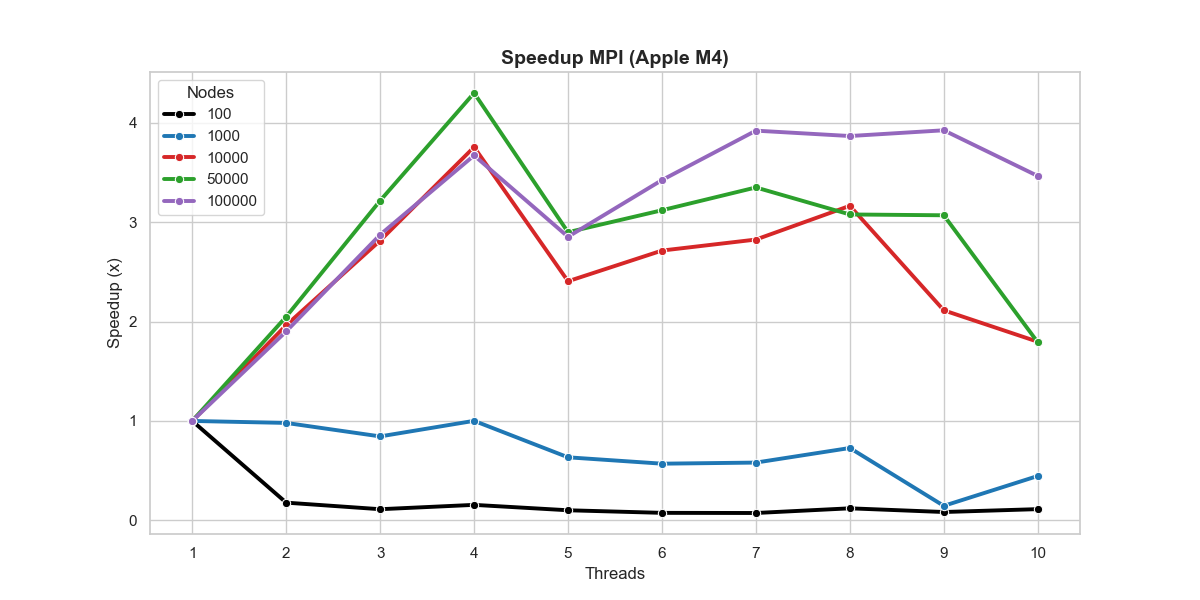
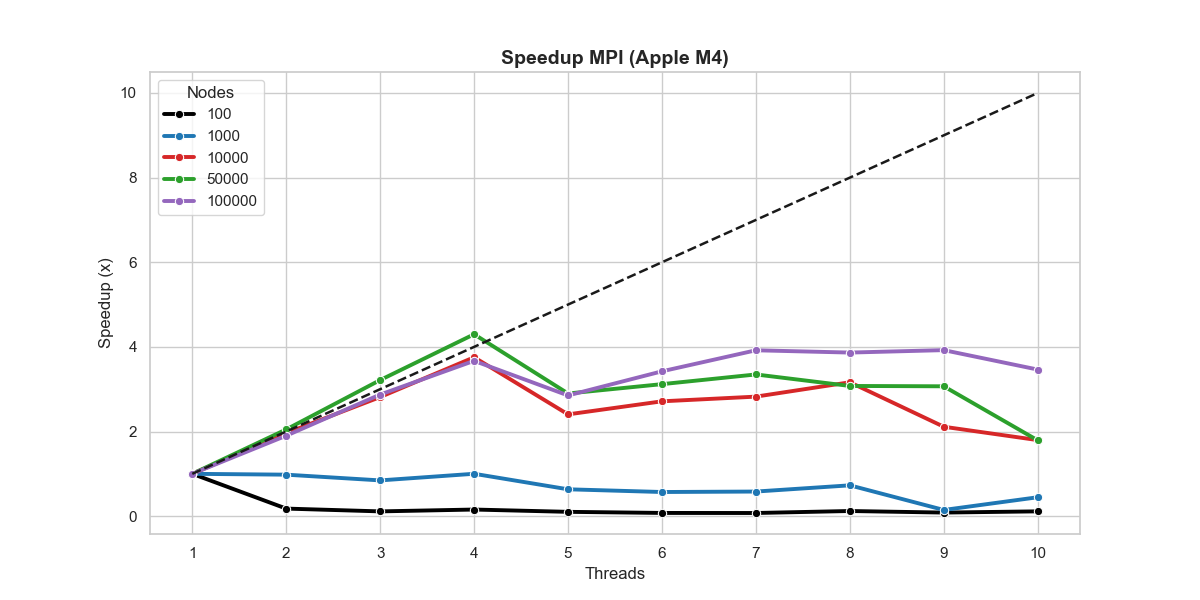
Update

diff --git a/ve_bieu_do.py b/ve_bieu_do.py
@@ -55,7 +55,7 @@ sns.lineplot(
     linewidth=2.8
 )
 
-# plt.plot([1, 10], [1, 10], 'k--', label='Ideal', linewidth=1.8)
+plt.plot([1, 10], [1, 10], 'k--', label='Ideal', linewidth=1.8)
 plt.title('Speedup OpenMP', fontsize=14, fontweight='bold')
 plt.ylabel('Speedup (x)')
 plt.xticks(range(1, 11))
@@ -81,6 +81,7 @@ sns.lineplot(
     linewidth=2.8
 )
 
+plt.plot([1, 10], [1, 10], 'k--', label='Ideal', linewidth=1.8)
 plt.title('Speedup MPI (Apple M4)', fontsize=14, fontweight='bold')
 plt.xticks(range(1, 11))
 plt.ylabel("Speedup (x)")
